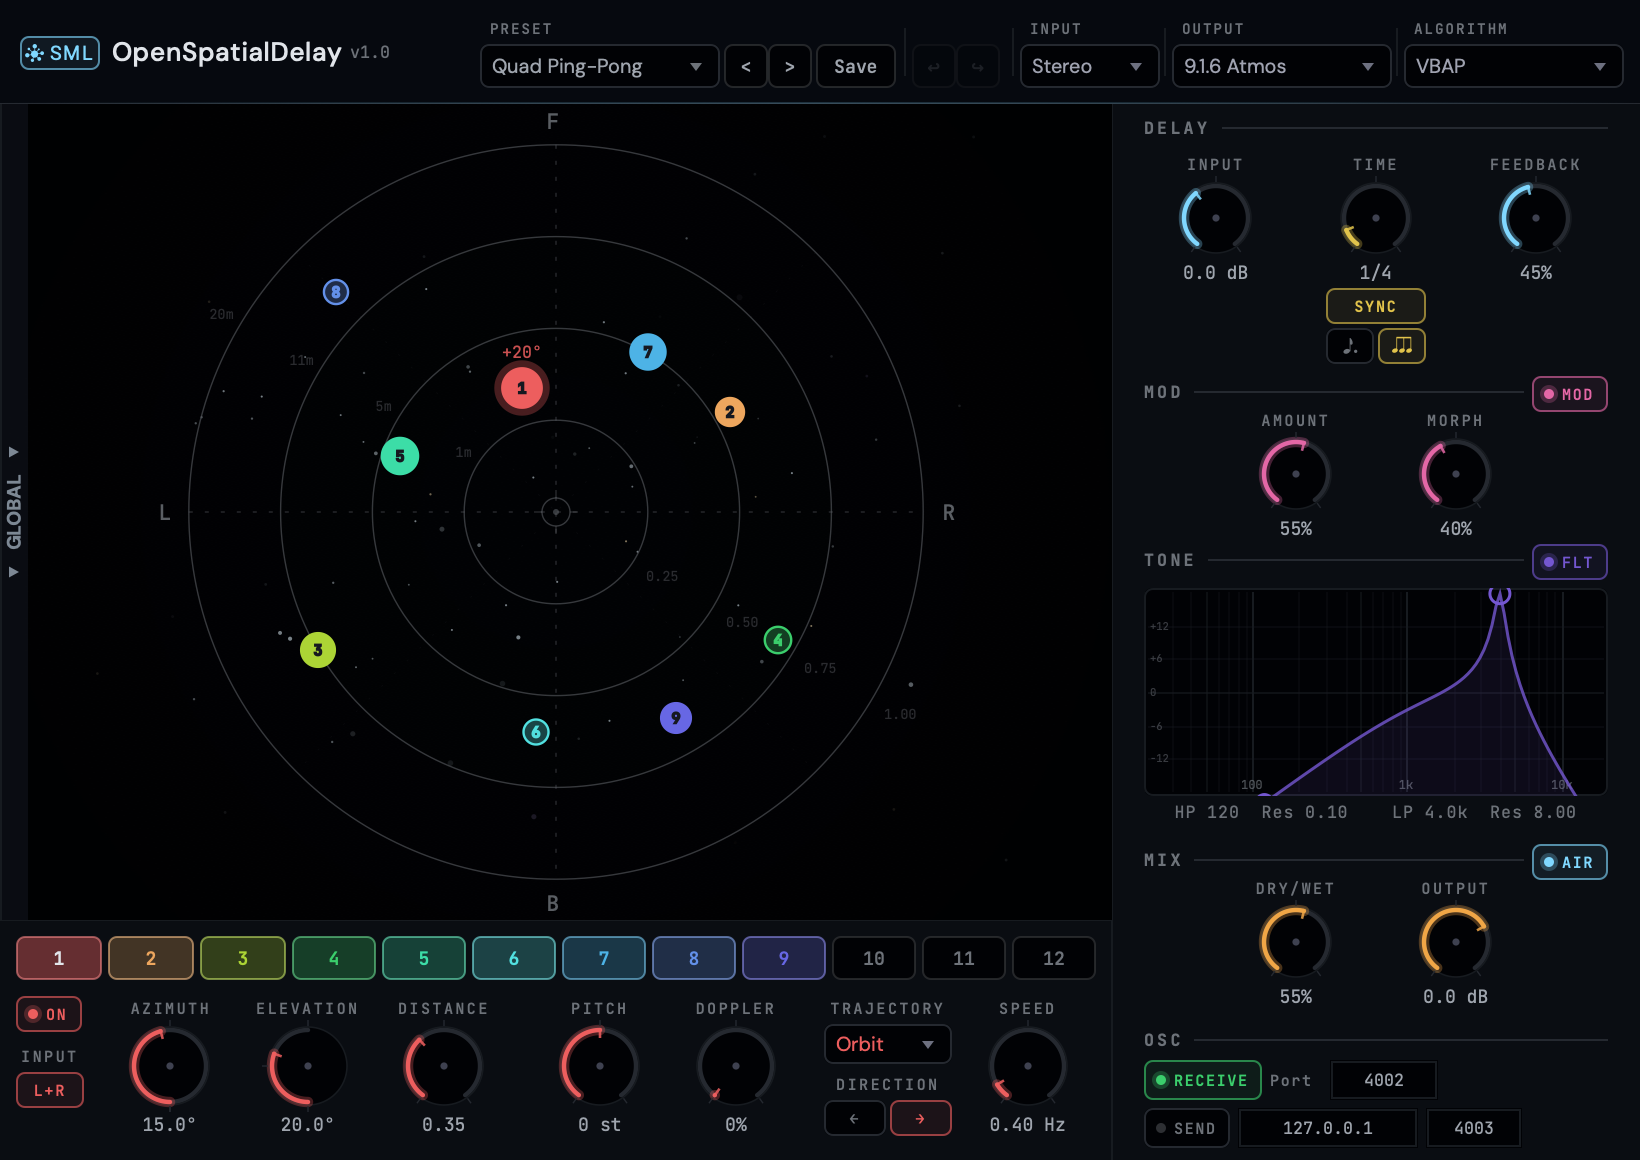
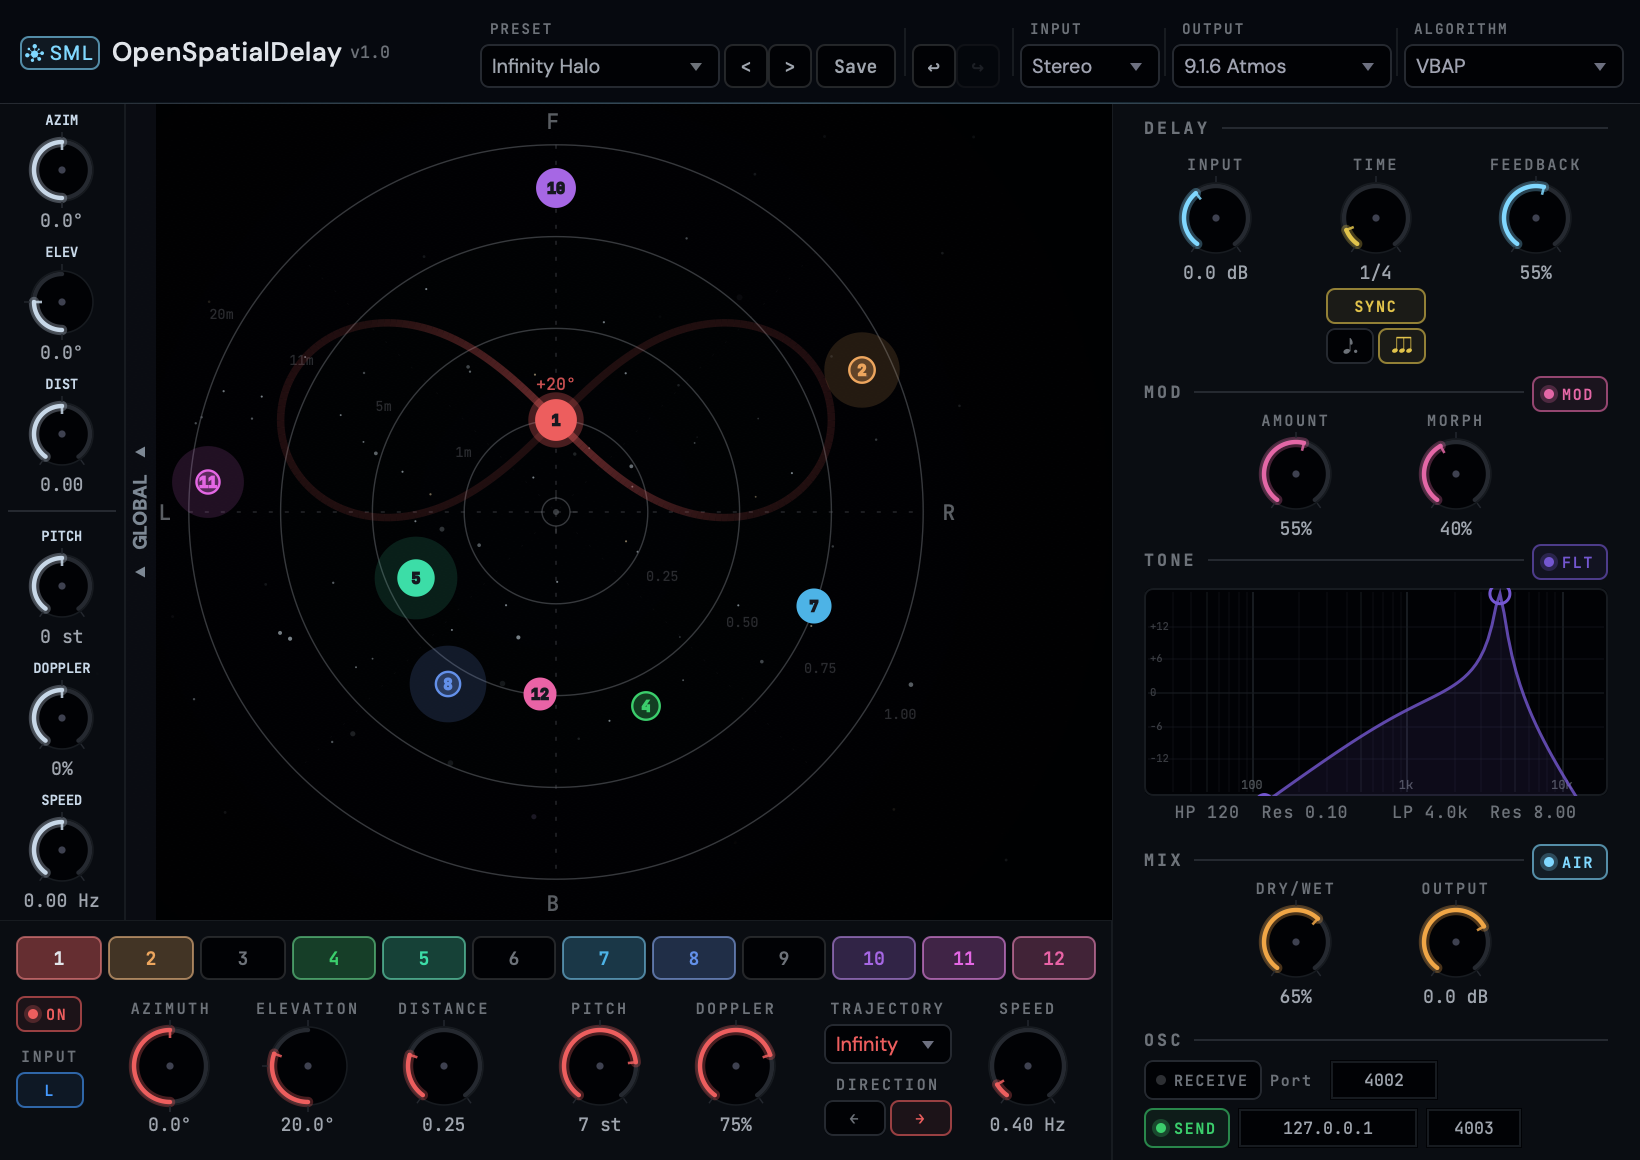
Screenshot revisions round 3 — item 7: hero screenshot (issue #168)
New dedicated `hero` capture mode in screenshot_tool.cpp produces the
main docs/README image with drawer open, undo lit, per-tap activity
glow, a custom "Infinity Halo" preset label, and a visible Infinity
trajectory on the spatial map.

applyShowcaseState reworked for the round-3 hero spec: Tap 1 at
az=0°/el=+20°/dist=0.25 with Infinity trajectory, L-only input,
+7 st pitch and 75 % Doppler; taps 3/6/9 disabled; taps 10/11/12
enabled and redistributed to varied azimuths, distances (0.42–0.95)
and elevations (-55° to +72°) outside the lemniscate's bounding
region so the figure-∞ reads unobstructed.

Three new screenshot hooks in the editor:

- SpatialMapComponent::setDrawFullTrajectoryForScreenshot lifts the
  trail's baseline alpha from 0.05 to 0.18 while keeping the
  proximity-focused bright spot, so the full path is lightly
  visible in a still frame.
- OpenSpatialDelayEditor::setPresetNameForScreenshot overrides the
  preset-name button text (called after syncForScreenshot so
  timerCallback doesn't reset it from getCurrentPresetIndex).
- applyShowcaseHeaderForScreenshot now also re-pulls processor state
  into the OSC Receive/Send toggle buttons — they're initialised
  once in the editor constructor, so without this resync the hero
  image kept the wrong lit/dim pattern after the showcase call.

regenerate_screenshots.sh line 49 switched from `--mode full
--showcase` to `--mode hero`. Derived PIL crops (header, right_panel,
[…]

diff --git a/tools/screenshot_tool.cpp b/tools/screenshot_tool.cpp
@@ -28,6 +28,9 @@
 //   undo-active       — Editor with populated undo history (undo active, redo inactive)
 //   annotated-source  — Showcase state + Global Drawer open + undo history populated.
 //                       Source image for the annotated callout overlay (issue #168 r3).
+//   hero              — Hero screenshot for docs/README: showcase + drawer open +
+//                       undo populated + per-tap activity glow + custom preset name
+//                       (issue #168 r3). --showcase is implicit.
 //   spatial-map       — Just the SpatialMap component (no drawer, no bottom panel)
 //   elevation-map     — SpatialMap with all 12 taps in a −90°→+90° spiral, labelled
 //
@@ -446,19 +449,47 @@ static void applyShowcaseState (OpenSpatialDelayProcessor& processor,
     processor.setOscSendEnabled    (true);
 
     // --- Taps: 9 enabled, varied az / el / dist ------------------------------
-    // Tap 1 carries an Orbit trajectory so the spatial map shows a visible
-    // trail. Other taps stay static but varied so the scene looks busy.
-    struct TapDef { float az, el, dist; int trajShape; float trajSpeed; };
-    const TapDef defs[9] = {
-        {   15.0f,  20.0f, 0.35f, 9, 0.40f },  // Tap 1: Orbit trajectory
-        {  -60.0f,   0.0f, 0.55f, 0, 0.0f  },
-        {  120.0f,  35.0f, 0.75f, 0, 0.0f  },
-        { -120.0f, -15.0f, 0.70f, 0, 0.0f  },
-        {   70.0f,  55.0f, 0.45f, 0, 0.0f  },
-        {  175.0f, -30.0f, 0.60f, 0, 0.0f  },
-        {  -30.0f,  45.0f, 0.50f, 0, 0.0f  },
-        {   45.0f, -40.0f, 0.85f, 0, 0.0f  },
-        { -150.0f,  10.0f, 0.65f, 0, 0.0f  },
+    // Round-3 update (issue #168): Tap 1 now carries an Infinity trajectory
+    // (figure-∞) so the spatial map shows a figure-8 trail. Tap 1 also
+    // splits out to R-only input with +7 st pitch shift and 75% Doppler —
+    // a soloable "lead" tap. Taps 3, 6 and 9 are disabled; taps 10, 11 and
+    // 12 take their place so the scene still carries 9 active echoes.
+    //
+    // trajectoryShape index 7 = "Infinity" (alphabetical list in
+    // PluginProcessor.cpp: None=0, Bounce=1, Circle=2, Cross=3, Figure-8=4,
+    // Heart=5, Helix=6, Infinity=7, ...).
+    // inputChannel index 1 = "L" (choices: L+R=0, L=1, R=2).
+    //
+    // Round-3 update 2: the Infinity lemniscate centred on Tap 1
+    // (az=15°, el=20°, dist=0.35) extends roughly ±0.65 in map-space on
+    // each side, which would collide with the inner taps from the first
+    // revision. Non-Tap-1 positions have been pushed toward the edges of
+    // the map so the full figure-∞ reads clean, and Tap 1 is now routed
+    // from the L channel rather than R.
+    struct TapDef { bool enabled; float az, el, dist; int trajShape;
+                    float trajSpeed; int inputCh; float dopplerAmt;
+                    float pitchSt; };
+    // Tap 1 is the Infinity-trajectory lead (az=0°, el=+20°, dist=0.25), so
+    // the lemniscate spans mapX ∈ [-0.75, 0.75] and mapY ∈ [-0.015, 0.515]
+    // in (sin(az)·dist, cos(az)·dist) space. The remaining 8 enabled taps
+    // are hand-placed outside that bounding region — a pseudo-random but
+    // deliberately non-uniform distribution: varied azimuths covering
+    // front-high, sides, rear-low and behind; distances span 0.42–0.95 so
+    // they don't form a ring; elevations span −55° to +72° so the scene
+    // reads as a real 3D spread rather than a flat plane.
+    const TapDef defs[12] = {
+        { true,     0.0f,  20.0f, 0.25f, 7, 0.40f, 1, 0.75f, 7.0f },  // Tap 1: Infinity, L, +7st, 75% Doppler
+        { true,   -65.0f, -25.0f, 0.92f, 0, 0.0f,  0, 0.0f,  0.0f },  // Tap 2:  past left lobe, low
+        { false,   0.0f,   0.0f, 0.50f, 0, 0.0f,  0, 0.0f,  0.0f },  // Tap 3 DISABLED
+        { true,  -155.0f,  -5.0f, 0.58f, 0, 0.0f,  0, 0.0f,  0.0f },  // Tap 4:  rear-left mid
+        { true,   115.0f,  45.0f, 0.42f, 0, 0.0f,  0, 0.0f,  0.0f },  // Tap 5:  side-right upper
+        { false,   0.0f,   0.0f, 0.50f, 0, 0.0f,  0, 0.0f,  0.0f },  // Tap 6 DISABLED
+        { true,  -110.0f,  28.0f, 0.75f, 0, 0.0f,  0, 0.0f,  0.0f },  // Tap 7:  rear-left upper
+        { true,   148.0f, -38.0f, 0.55f, 0, 0.0f,  0, 0.0f,  0.0f },  // Tap 8:  rear-right low
+        { false,   0.0f,   0.0f, 0.50f, 0, 0.0f,  0, 0.0f,  0.0f },  // Tap 9 DISABLED
+        { true,     0.0f,  72.0f, 0.88f, 0, 0.0f,  0, 0.0f,  0.0f },  // Tap 10: directly front, very high + far
+        { true,    85.0f, -55.0f, 0.95f, 0, 0.0f,  0, 0.0f,  0.0f },  // Tap 11: past right lobe, very low
+        { true,   175.0f,  15.0f, 0.50f, 0, 0.0f,  0, 0.0f,  0.0f },  // Tap 12: directly behind mid
     };
     for (int i = 0; i < 12; ++i)
     {
@@ -480,19 +511,18 @@ static void applyShowcaseState (OpenSpatialDelayProcessor& processor,
                 p->setValueNotifyingHost (v ? 1.0f : 0.0f);
         };
 
-        if (i < 9)
+        const auto& d = defs[i];
+        setObjBool ("enabled", d.enabled);
+        if (d.enabled)
         {
-            const auto& d = defs[i];
-            setObjBool   ("enabled",             true);
             setObjFloat  ("azimuth",             d.az);
             setObjFloat  ("elevation",           d.el);
             setObjFloat  ("distance",            d.dist);
             setObjChoice ("trajectoryShape",     d.trajShape);
             setObjFloat  ("trajectorySpeed",     d.trajSpeed);
-        }
-        else
-        {
-            setObjBool ("enabled", false);
+            setObjChoice ("inputChannel",        d.inputCh);
+            setObjFloat  ("dopplerAmount",       d.dopplerAmt);
+            setObjFloat  ("pitchShift",          d.pitchSt);
         }
     }
 
@@ -797,6 +827,60 @@ int main (int argc, char* argv[])
         auto& map = osd->getSpatialMapForScreenshot();
         result = snapshotComponent (map, scaleFactor);
     }
+    else if (mode == "hero")
+    {
+        // Issue #168 round 3: hero screenshot for docs/README. Combines the
+        // showcase state (features-on demo) with the Global Drawer open, a
+        // populated undo history (undo arrow lit), per-tap activity glow on
+        // a subset of non-Tap-1 taps, and a custom preset-name label that
+        // better matches the Round-3 Tap-1 characterisation. --showcase is
+        // implicit so the script doesn't need both flags.
+        if (! showcase)
+            applyShowcaseState (processor, *osd);
+        const float demoKnobs[6] = { 0.0f, 0.0f, 0.15f, -0.1f, 0.0f, 0.0f };
+        osd->configureGlobalDrawer (true, demoKnobs, 6);
+        populateUndoHistory (processor);
+        osd->resized();
+        osd->syncForScreenshot();
+
+        // Post-sync overrides — syncForScreenshot calls timerCallback which
+        // (a) resets presetNameButton text from getCurrentPresetIndex(), and
+        // (b) zeroes spatialMap activity to getTapActivityRMS() (== 0 in the
+        // offline tool). Any manual overrides must therefore run AFTER that
+        // sync, right before the snapshot.
+        osd->setPresetNameForScreenshot ("Infinity Halo");
+        auto& map = osd->getSpatialMapForScreenshot();
+        // Light up a handful of non-Tap-1 echoes so the hero image reads as
+        // a plugin in motion. Indices are 0-based: 1 = Tap 2, 4 = Tap 5,
+        // 7 = Tap 8, 10 = Tap 11.
+        map.setObjectActivityLevel (1,  0.75f);
+        map.setObjectActivityLevel (4,  0.65f);
+        map.setObjectActivityLevel (7,  0.85f);
+        map.setObjectActivityLevel (10, 0.70f);
+
+        // The trajectory trail (PluginEditor.cpp ~L1087) only draws when
+        // the selected object's TrajectoryState has shape != 0. That state
+        // is normally set from trajectory.tick() inside processBlock, which
+        // never runs in the offline tool — so we seed it manually here.
+        // Tap 1 (index 0) is the default selected object.
+        TrajectoryState infinityState;
+        infinityState.originAzDeg = 0.0f;
+        infinityState.originElDeg = 20.0f;
+        infinityState.originDist  = 0.25f;
+        infinityState.shape       = 7;       // Infinity (Lemniscate)
+        infinityState.phase       = 0.25f;   // mid-loop — animated dot sits ~¼ along the path
+        infinityState.reverse     = false;
+        infinityState.randomTime  = 0.0f;
+        map.setTrajectoryState (0, infinityState);
+
+        // Round-3 update 2: draw the entire sampled path at peak brightness
+        // so the figure-∞ reads as a complete shape (the live view's
+        // proximity-based glow would render most of the curve near-invisible
+        // at 0.05 alpha in a still frame).
+        map.setDrawFullTrajectoryForScreenshot (true);
+
+        result = snapshotComponent (*osd, scaleFactor);
+    }
     else if (mode == "elevation-map")
     {
         // Configure all 12 taps as a spiral: azimuths evenly spread around the
@@ -839,8 +923,8 @@ int main (int argc, char* argv[])
         std::cerr << "Error: unknown --mode: " << mode.toStdString() << "\n";
         std::cerr << "Valid modes: full, drawer-open, tone-section, osc-section,\n"
                      "             save-overlay, preset-menu, output-dropdown,\n"
-                     "             undo-active, annotated-source, spatial-map,\n"
-                     "             elevation-map\n";
+                     "             undo-active, annotated-source, hero,\n"
+                     "             spatial-map, elevation-map\n";
         return 1;
     }
 

diff --git a/Source/PluginEditor.cpp b/Source/PluginEditor.cpp
@@ -1131,12 +1131,19 @@ void SpatialMapComponent::paint (juce::Graphics& g)
                     continue;
 
                 // Brightness: proximity to current animated dot position
-                // Tighter focus (×6) for concentrated glow near the moving dot
+                // Tighter focus (×6) for concentrated glow near the moving dot.
+                // Issue #168 r3: in hero-screenshot mode, keep the proximity
+                // fade so the animated dot still has a bright focus, but
+                // lift the baseline so the rest of the path reads as a faint
+                // continuous curve rather than a near-invisible 0.05-alpha
+                // outline. Peak brightness stays the same.
                 float phaseDist = std::abs (p0.phase - ts.phase);
                 if (phaseDist > 0.5f) phaseDist = 1.0f - phaseDist;
                 float proximity = 1.0f - (phaseDist * 6.0f);
                 proximity = juce::jlimit (0.0f, 1.0f, proximity);
-                float glowAlpha = 0.05f + proximity * 0.55f;
+                float glowAlpha = drawFullTrajectoryForScreenshot
+                                ? (0.18f + proximity * 0.42f)
+                                : (0.05f + proximity * 0.55f);
 
                 // Elevation encoding: opacity + thickness
                 float avgEl = (p0.elDeg + p1.elDeg) * 0.5f;
@@ -3412,7 +3419,30 @@ void OpenSpatialDelayEditor::applyShowcaseHeaderForScreenshot()
     outputFormatBox.setSelectedItemIndex (processorRef.configOutputFormat.load (std::memory_order_relaxed),
                                           juce::dontSendNotification);
     lastAlgoCategoryShown = -1;
+
+    // Issue #168 round 3: the OSC Receive / Send toggle buttons only read
+    // the processor state once, in the editor constructor. By the time
+    // applyShowcaseState() has flipped Receive off and Send on, the
+    // buttons still carry their construction-time state — so the snapshot
+    // shows the wrong lit/dim pattern. Re-pull processor state here so
+    // the buttons reflect the showcase.
+    if (oscToggleButton     != nullptr)
+        oscToggleButton->setToggleState     (processorRef.getOscReceiveEnabled(), juce::dontSendNotification);
+    if (oscSendToggleButton != nullptr)
+        oscSendToggleButton->setToggleState (processorRef.getOscSendEnabled(),    juce::dontSendNotification);
+
     syncForScreenshot();
+}
+
+void OpenSpatialDelayEditor::setPresetNameForScreenshot (const juce::String& name)
+{
+    // Issue #168 round 3: manual override for the preset-name button. Used
+    // by the screenshot tool's hero mode to show a custom label instead of
+    // the name derived from getCurrentPresetIndex(). Call AFTER
+    // syncForScreenshot() — the timerCallback inside that sync resets the
+    // label from processorRef.getPresetNames(), so any override must run
+    // last, right before snapshotComponent().
+    presetNameButton.setButtonText (name);
 }
 
 juce::Rectangle<int> OpenSpatialDelayEditor::getToneSectionBoundsForScreenshot() const

diff --git a/Source/PluginEditor.h b/Source/PluginEditor.h
@@ -36,6 +36,13 @@ public:
         taps all display their in-plugin elevation label in the tap's colour. */
     void setLabelAllEnabledObjectsForScreenshot (bool enabled) { labelAllEnabledForScreenshot = enabled; }
 
+    /** Round-3 screenshot hook (#168): when true, the selected tap's
+        trajectory trail is drawn at full brightness along the entire
+        sampled path instead of fading based on proximity to the moving
+        dot. Used by the hero screenshot so the Infinity path is visible
+        as a complete figure-∞ on the map. */
+    void setDrawFullTrajectoryForScreenshot (bool enabled) { drawFullTrajectoryForScreenshot = enabled; }
+
     void addListener (Listener* l)    { listeners.add (l); }
     void removeListener (Listener* l) { listeners.remove (l); }
 
@@ -58,6 +65,7 @@ private:
     int selectedObject = -1;
     int draggedObject  = -1;
     bool labelAllEnabledForScreenshot = false;  // issue #168 round 2: elevation-map mode
+    bool drawFullTrajectoryForScreenshot = false;  // issue #168 round 3: hero screenshot
     OpenSpatialDelayProcessor* processor = nullptr;  // for Random trail look-ahead
 
     juce::ListenerList<Listener> listeners;
@@ -582,6 +590,12 @@ public:
         directly, and force the algorithm combo to rebuild for the new
         output-format category. Call after seeding processor state. */
     void applyShowcaseHeaderForScreenshot();
+
+    /** Issue #168 round 3: override the preset-name button text for the
+        hero screenshot. Must be called AFTER syncForScreenshot() so the
+        subsequent snapshot captures the custom label rather than the one
+        timerCallback derives from getCurrentPresetIndex(). */
+    void setPresetNameForScreenshot (const juce::String& name);
 
 private:
     std::unique_ptr<StyledButton> smlButton;  // header branding link

diff --git a/docs/SCREENSHOT_REVIEW_ROUND_3.md b/docs/SCREENSHOT_REVIEW_ROUND_3.md
@@ -22,7 +22,7 @@ round 3. User iterates per-item; this table tracks state.
 |---|------|--------|---------------|
 | 2 | `screenshot_annotated.png` | ✅ Done (`063c9f6`) | see "Item 2 — Annotated screenshot" below |
 | 6 | `screenshot_elevation_map.png` | ✅ Done (no change) | Round-3 review: accepted as-is |
-| 7 | `screenshot.png` | ⏳ Awaiting review | — |
+| 7 | `screenshot.png` | ✅ Done (this commit) | see "Item 7 — Hero screenshot" below |
 | 10 | `screenshot_output_menu.png` | ⏳ Awaiting review | — |
 | 11 | `screenshot_preset_menu.png` | ⏳ Awaiting review | — |
 | 12 | `screenshot_right_panel.png` | ⏳ Awaiting review | — |
@@ -85,11 +85,81 @@ required. The round-2 spiral flip and plugin-native label change are
 considered final for round 3. Item 6 is closed and needs no further
 work.
 
+## Item 7 — Hero screenshot (`screenshot.png`)
+
+Reviewed and revised iteratively in this session. The round-2 output
+was a plain `--mode full --showcase` capture; round 3 upgrades it to a
+new dedicated `hero` mode that renders the full "features-on" demo
+plus narrative elements the round-2 image lacked (drawer open, undo
+lit, tap activity glow, a named custom preset, and a visible Infinity
+trajectory). Source of truth is `tools/screenshot_tool.cpp` (new
+`hero` mode + reworked `applyShowcaseState`), `Source/PluginEditor.*`
+(three new screenshot hooks), and `scripts/regenerate_screenshots.sh`
+(line 49 now calls `--mode hero`).
+
+**What changed versus the round-2 `--mode full --showcase` drop:**
+
+- **New `hero` capture mode** in `screenshot_tool.cpp`. Combines
+  `applyShowcaseState` + `configureGlobalDrawer(true, …)` +
+  `populateUndoHistory` + post-sync overrides for preset name, per-tap
+  activity and the selected object's trajectory state. `--showcase`
+  is implicit so the script doesn't need both flags.
+- **`applyShowcaseState` reworked** to match the round-3 hero spec:
+  - Tap 1 now carries an **Infinity** trajectory (shape 7, not Orbit),
+    with the lead routed from the **L** channel (inputChannel=1,
+    not the default L+R), **+7 st** pitch shift and **75 %** Doppler.
+  - Tap 1 is centred on the listener axis: `az=0°, el=+20°,
+    dist=0.25` — so the lemniscate sweeps symmetrically.
+  - Taps **3, 6, 9 are disabled**; taps **10, 11, 12 are enabled** in
+    their place so the scene still carries 9 active echoes.
+  - Non-Tap-1 taps are hand-placed *outside* the lemniscate bounding
+    region (mapX ∈ [-0.75, 0.75], mapY ∈ [-0.015, 0.515]) at varied
+    distances (0.42–0.95) and elevations (−55° to +72°) so the spread
+    reads 3D rather than a ring.
+- **Three new screenshot hooks in the editor** (`PluginEditor.h/.cpp`):
+  - `SpatialMapComponent::setDrawFullTrajectoryForScreenshot(bool)` —
+    when true, the selected tap's trajectory trail keeps its
+    proximity-focused bright spot near the animated dot but lifts the
+    baseline from 0.05 → 0.18 so the rest of the path is lightly
+    visible in a still frame.
+  - `OpenSpatialDelayEditor::setPresetNameForScreenshot(String)` —
+    manual override for the preset-name button so the snapshot shows
+    "Infinity Halo" instead of the underlying preset index's name.
+  - `OpenSpatialDelayEditor::applyShowcaseHeaderForScreenshot()`
+    extended to re-pull processor state into the OSC Receive / Send
+    toggle buttons — they're initialised once in the editor
+    constructor, so without this resync the hero image kept the
+    wrong lit/dim pattern after `setOscReceiveEnabled(false)` /
+    `setOscSendEnabled(true)`.
+- **Per-tap activity glow** seeded on taps 2, 5, 8, 11
+  (`setObjectActivityLevel` at 0.65–0.85), so the hero image reads as
+  a plugin in motion rather than a dead layout.
+- **TrajectoryState seeded manually** for Tap 1 in the tool — the
+  live view gets this from `trajectory.tick()` inside `processBlock`,
+  which never runs in the offline tool.
+- **Custom preset label "Infinity Halo"** displayed in the header.
+- **`scripts/regenerate_screenshots.sh`** line 49 switched from
+  `--mode full --showcase` to `--mode hero`. Derived PIL crops
+  (`screenshot_header.png`, `screenshot_right_panel.png`,
+  `screenshot_bottom_panel.png`) and the `screenshot_full.png` copy
+  will now carry hero-state content when the script is next run.
+
+**Downstream cascade to watch in the next session:**
+
+Because `screenshot.png` is the PIL-crop source for three other PNGs
+(header / right_panel / bottom_panel) and is also copied to
+`screenshot_full.png`, those four files are now out of sync with the
+new hero state on disk. Regenerate them from the new `screenshot.png`
+before reviewing the remaining round-3 items — in particular
+**#12 `screenshot_right_panel.png`** depends on this source and
+cannot be reviewed against the old round-2 crop.
+
 ## Next session / next item
 
-The next item to review is **#7 — `screenshot.png`** (the main plugin
-screenshot / hero image). Any round-3 revision will come from direct
-user feedback on the current PNG at `docs/assets/screenshot.png`.
+Item 7 is closed. Remaining open items: **10, 11, 12, 16, 17**. User
+has been choosing the next item to review, so the next session should
+prompt with the outstanding list and wait for the pick. Note the
+downstream cascade above before touching item 12.
 
 ## Files the next session needs
 
